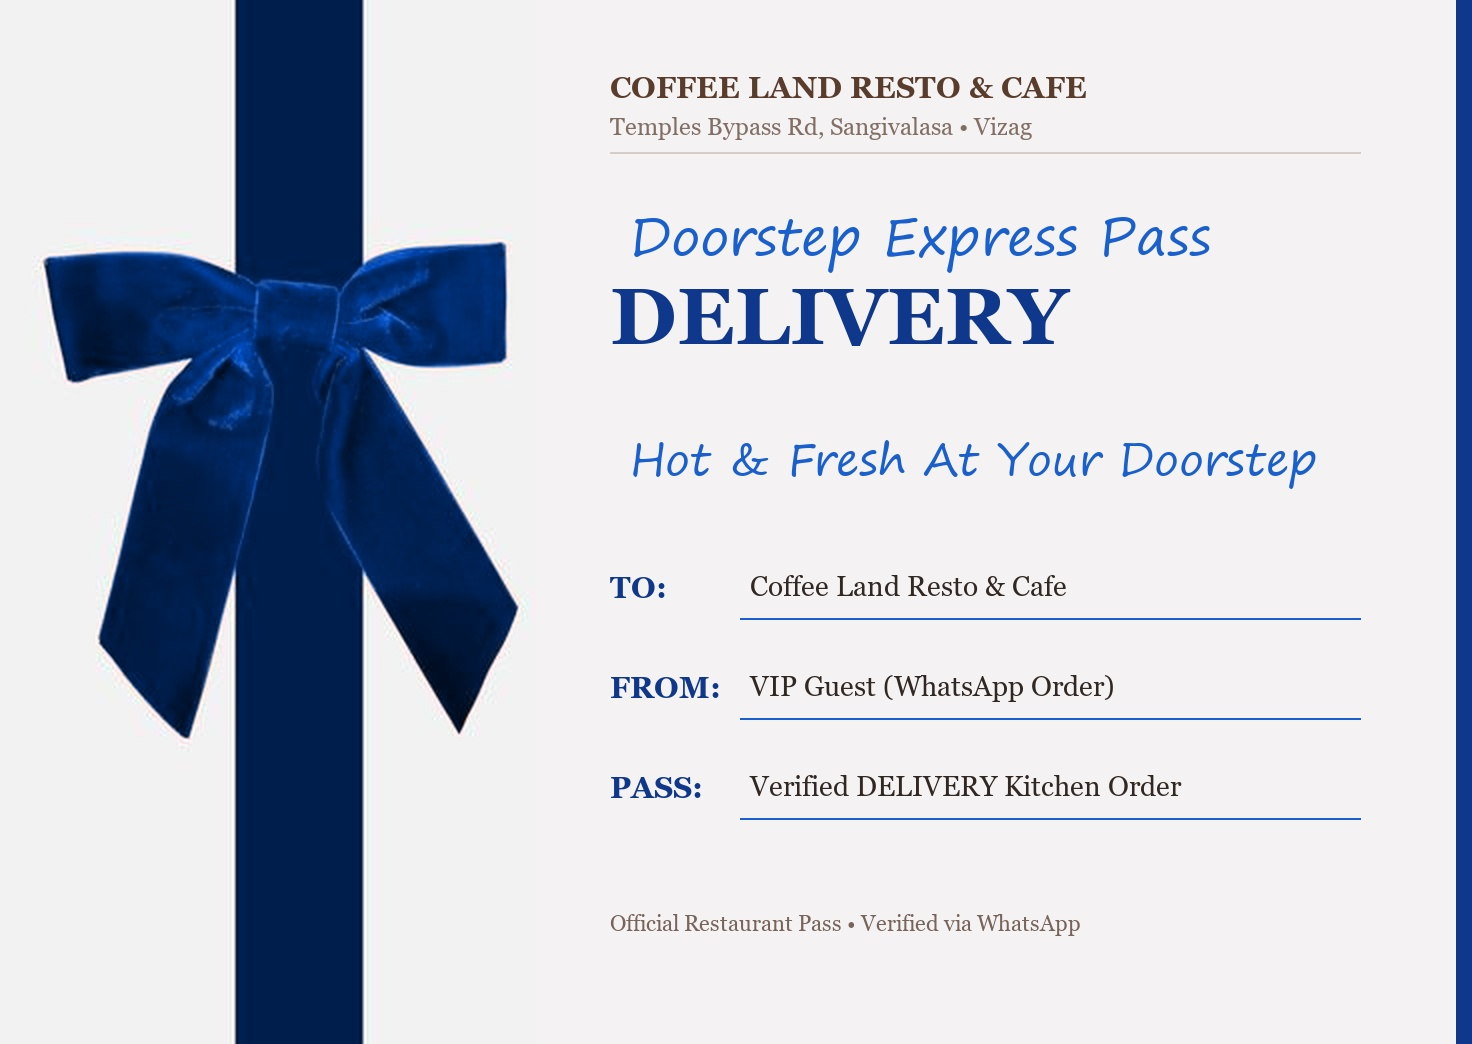
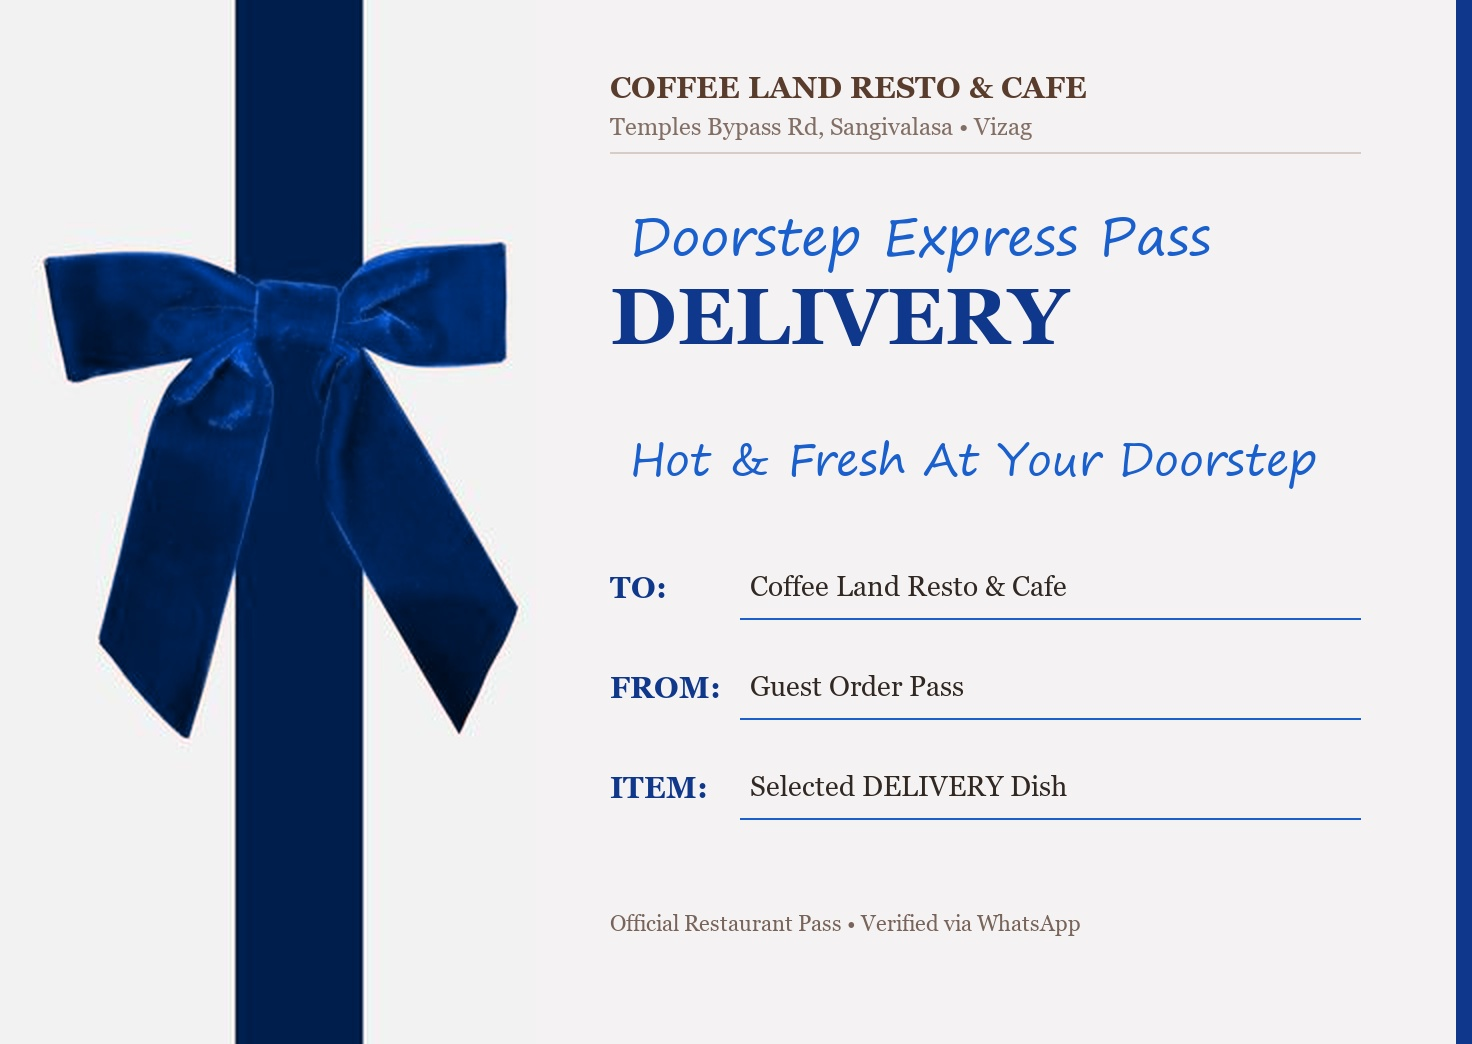
fix: remove top ORDER NOW button for clean mobile sidebar, send personalized pass with exact item name & short cold message

Changed region(s): [[0.4062, 0.7356, 0.8125, 0.7663], [0.5, 0.6437, 0.75, 0.6743]]

diff --git a/src/services/whatsappOrderService.ts b/src/services/whatsappOrderService.ts
@@ -15,82 +15,131 @@ export interface WhatsAppOrderPayload {
 const RENDER_BASE_URL = 'https://coffeeland-4yy7.onrender.com';
 
 /**
- * Dispatches the order to WhatsApp with the official reference pass card.
- * 1. Puts the live order-pass OpenGraph URL at the top of the message so WhatsApp
- *    renders the high-resolution reference card banner in the chat bubble.
- * 2. On mobile browsers supporting navigator.share, shares the actual card image file
- *    directly into WhatsApp with the message caption.
- * 3. On desktop browsers, copies the card image to the system clipboard for easy Ctrl+V pasting.
+ * Dynamically draws the customer details and actual item name onto the
+ * official reference card template (with real velvet ribbon & bow).
+ */
+export async function generatePersonalizedCardBlob(payload: WhatsAppOrderPayload): Promise<Blob | null> {
+  if (typeof document === 'undefined') return null;
+
+  const dining = payload.diningOption;
+  const passSlug = dining === 'Delivery' ? 'delivery' : dining === 'Takeaway' ? 'takeaway' : 'dine-in';
+  const baseImgUrl = `/passes/${passSlug}-base.jpg`;
+
+  return new Promise((resolve) => {
+    const img = new Image();
+    img.crossOrigin = 'anonymous';
+    img.onload = () => {
+      try {
+        const canvas = document.createElement('canvas');
+        canvas.width = img.width || 1472;
+        canvas.height = img.height || 1044;
+        const ctx = canvas.getContext('2d');
+        if (!ctx) return resolve(null);
+
+        // 1. Draw the reference card base (velvet ribbon, bow, branding, TO: line)
+        ctx.drawImage(img, 0, 0, canvas.width, canvas.height);
+
+        const scale = canvas.width / 736; // scale factor (2x)
+        const contentX = 305 * scale;
+        const lineStartX = contentX + 70 * scale;
+        const maxTextWidth = 680 * scale - lineStartX;
+
+        // 2. Draw FROM: Customer Name and Mobile
+        ctx.fillStyle = '#2c1810';
+        ctx.textBaseline = 'middle';
+        ctx.font = `bold ${Math.round(14 * scale)}px Georgia, serif`;
+        const customerText = `${payload.customerName || 'Direct Guest'}${
+          payload.customerPhone ? ` (${payload.customerPhone})` : ''
+        }`;
+        ctx.fillText(customerText, lineStartX, 335 * scale + 11 * scale, maxTextWidth);
+
+        // 3. Draw ITEM: Exact Dish Name & Bill Total (NOT generic verified pass)
+        ctx.font = `bold ${Math.round(15 * scale)}px Georgia, serif`;
+        const itemText = `${payload.itemName} • ₹${payload.price}`;
+        ctx.fillText(itemText, lineStartX, 385 * scale + 11 * scale, maxTextWidth);
+
+        // 4. Optional Special Note (Table Number / Delivery Address)
+        if (payload.customNote) {
+          ctx.font = `italic ${Math.round(12 * scale)}px Georgia, serif`;
+          ctx.fillStyle = dining === 'Delivery' ? '#0f378c' : dining === 'Takeaway' ? '#0c5a30' : '#780a14';
+          ctx.fillText(`Note: ${payload.customNote}`, contentX, 425 * scale + 11 * scale, 680 * scale - contentX);
+        }
+
+        canvas.toBlob((blob) => resolve(blob), 'image/jpeg', 0.95);
+      } catch (err) {
+        console.warn('Canvas card generation failed:', err);
+        resolve(null);
+      }
+    };
+
+    img.onerror = () => {
+      console.warn('Failed to load card base image:', baseImgUrl);
+      resolve(null);
+    };
+
+    img.src = baseImgUrl;
+  });
+}
+
+/**
+ * Dispatches the order to WhatsApp with the personalized reference pass card:
+ * 1. Shares the actual personalized card image with customer name and item name.
+ * 2. Sends a short, polite cold message from customer to restaurant owner.
+ * 3. Includes the live order-pass URL so WhatsApp generates the card preview banner.
+ * 4. On desktop, copies the personalized card to clipboard for 1-click Ctrl+V pasting.
  */
 export async function sendOrderToWhatsApp(payload: WhatsAppOrderPayload): Promise<void> {
   const phone = '919542525665';
   const dining = payload.diningOption;
-  const tagEmoji = dining === 'Dine-In' ? '🔴' : dining === 'Delivery' ? '🔵' : '🟢';
-  const tagColor = dining === 'Dine-In' ? 'RED' : dining === 'Delivery' ? 'BLUE' : 'GREEN';
-  const typeLabel =
-    dining === 'Dine-In'
-      ? 'DINE-IN ORDER'
-      : dining === 'Delivery'
-      ? 'HOME DELIVERY ORDER'
-      : 'TAKEAWAY PARCEL ORDER';
-  const subLabel =
-    dining === 'Dine-In'
-      ? 'Table Service Pass'
-      : dining === 'Delivery'
-      ? 'Doorstep Express Pass'
-      : 'Express Counter Parcel';
-
-  const orderId = payload.orderId || `CL-${Date.now().toString().slice(-6)}`;
+  const emoji = dining === 'Dine-In' ? '🔴' : dining === 'Delivery' ? '🔵' : '🟢';
   const passSlug = dining === 'Delivery' ? 'delivery' : dining === 'Takeaway' ? 'takeaway' : 'dine-in';
+  const orderId = payload.orderId || `CL-${Date.now().toString().slice(-6)}`;
 
-  // The public preview link for WhatsApp OpenGraph card preview
+  // Public card preview URL for WhatsApp OpenGraph preview
   const cardPreviewUrl = `${RENDER_BASE_URL}/order-pass?type=${encodeURIComponent(
     dining
   )}&item=${encodeURIComponent(payload.itemName)}&price=${payload.price}&name=${encodeURIComponent(
     payload.customerName || 'VIP Guest'
   )}&id=${orderId}`;
 
-  // Formatted order message with the card URL at the very top for WhatsApp Rich Link Preview
-  const orderWhatsAppText = `${cardPreviewUrl}
+  // Short, polite cold message from customer to restaurant owner (details are already on the card!)
+  let shortColdMessage = `${cardPreviewUrl}
 
-${tagEmoji}━━━━━━━━━━━━━━━━━━━━━━━━━━━━━${tagEmoji}
-   *${typeLabel} (${tagColor} PASS)*
-   _${subLabel}_
-━━━━━━━━━━━━━━━━━━━━━━━━━━━━
-📌 *TO:* Coffee Land Resto & Cafe
-        Temples Bypass Rd, Sangivalasa, Vizag
-👤 *FROM:* ${payload.customerName || 'Direct Guest'}${payload.customerPhone ? ` (${payload.customerPhone})` : ''}
-────────────────────────────
-🍽 *ITEM:* ${payload.itemName}
-🏷 *CATEGORY:* ${payload.category || 'Specialty Dish'}
-💰 *TOTAL BILL:* ₹${payload.price}${payload.promoCode ? ` (Promo: ${payload.promoCode})` : ''}
-${payload.customNote ? `📝 *DETAILS:* ${payload.customNote}\n` : ''}⏰ *TIME:* ${new Date().toLocaleString('en-IN', { timeZone: 'Asia/Kolkata', dateStyle: 'medium', timeStyle: 'short' })}
-━━━━━━━━━━━━━━━━━━━━━━━━━━━━
-✨ Please prepare & confirm this ${typeLabel}! ✨`;
+Hello Coffee Land! 👋
+I would like to place a ${emoji} *${dining} Order*:
+🍽 *Item:* ${payload.itemName} (₹${payload.price})
+👤 *Guest:* ${payload.customerName || 'Guest'}${payload.customerPhone ? ` (${payload.customerPhone})` : ''}
+${payload.customNote ? `📝 *Details:* ${payload.customNote}\n` : ''}Please confirm my order pass! Thank you.`;
 
-  // Try to fetch the local/hosted pass image
-  let imageFile: File | null = null;
+  // Generate personalized card image with customer name and item name
+  let cardFile: File | null = null;
+  let cardBlob: Blob | null = null;
+
   try {
-    const imgUrl = `/passes/${passSlug}.jpg`;
-    const res = await fetch(imgUrl);
-    if (res.ok) {
-      const blob = await res.blob();
-      imageFile = new File([blob], `${passSlug}-order-pass.jpg`, { type: 'image/jpeg' });
+    cardBlob = await generatePersonalizedCardBlob(payload);
+    if (!cardBlob) {
+      // Fallback to pre-rendered default pass
+      const res = await fetch(`/passes/${passSlug}.jpg`);
+      if (res.ok) cardBlob = await res.blob();
+    }
 
-      // If on desktop, try copying the image to clipboard so the user can easily paste (Ctrl+V) into WhatsApp Web
+    if (cardBlob) {
+      const fileName = `${dining}_Pass_${payload.itemName.replace(/[^a-zA-Z0-9]/g, '_')}.jpg`;
+      cardFile = new File([cardBlob], fileName, { type: 'image/jpeg' });
+
+      // On desktop browsers: copy card image directly to clipboard so user can press Ctrl+V into WhatsApp Web
       if (typeof navigator !== 'undefined' && navigator.clipboard && typeof ClipboardItem !== 'undefined') {
         try {
-          // Convert to PNG blob if needed since some browsers require image/png for clipboard
           const canvas = document.createElement('canvas');
           const img = new Image();
           img.crossOrigin = 'anonymous';
-          img.src = URL.createObjectURL(blob);
-          await new Promise((resolve) => {
-            img.onload = resolve;
-            img.onerror = resolve;
+          img.src = URL.createObjectURL(cardBlob);
+          await new Promise((res) => {
+            img.onload = res;
+            img.onerror = res;
           });
-          canvas.width = img.width || 736;
-          canvas.height = img.height || 522;
+          canvas.width = img.width;
+          canvas.height = img.height;
           const ctx = canvas.getContext('2d');
           if (ctx) {
             ctx.drawImage(img, 0, 0);
@@ -101,39 +150,38 @@ ${payload.customNote ? `📝 *DETAILS:* ${payload.customNote}\n` : ''}⏰ *TIME:
             }, 'image/png');
           }
         } catch {
-          // Non-blocking
+          // Non-blocking clipboard copy
         }
       }
     }
   } catch (err) {
-    console.warn('Could not fetch pass card image for sharing:', err);
+    console.warn('Card image preparation error:', err);
   }
 
-  // 1. If mobile device supports Web Share API with files, share directly to WhatsApp
+  // 1. Mobile Web Share API: Directly attaches the personalized card image into WhatsApp with the cold message caption
   if (
     typeof navigator !== 'undefined' &&
-    imageFile &&
+    cardFile &&
     navigator.canShare &&
-    navigator.canShare({ files: [imageFile] })
+    navigator.canShare({ files: [cardFile] })
   ) {
     try {
       await navigator.share({
-        files: [imageFile],
-        text: orderWhatsAppText,
+        files: [cardFile],
+        text: shortColdMessage,
         title: `Coffee Land ${dining} Order Pass`,
       });
       return;
     } catch (shareErr: unknown) {
-      // If user cancelled share sheet, return silently; otherwise fall back to wa.me
       if (shareErr instanceof Error && shareErr.name === 'AbortError') {
-        return;
+        return; // User cancelled share dialog
       }
-      console.warn('Web Share failed, falling back to wa.me URL:', shareErr);
+      console.warn('Web Share fallback:', shareErr);
     }
   }
 
-  // 2. Standard WhatsApp deep-link with the card preview URL included
-  const encodedText = encodeURIComponent(orderWhatsAppText);
+  // 2. Standard WhatsApp deep-link with the card preview URL and short cold message
+  const encodedText = encodeURIComponent(shortColdMessage);
   const whatsappUrl = `https://wa.me/${phone}?text=${encodedText}`;
 
   if (typeof window !== 'undefined') {

diff --git a/src/hooks/useBanners.ts b/src/hooks/useBanners.ts
@@ -296,23 +296,13 @@ export const useBanners = () => {
     const typeLabel = dining === 'Dine-In' ? 'DINE-IN ORDER' : dining === 'Delivery' ? 'HOME DELIVERY ORDER' : 'TAKEAWAY PARCEL ORDER';
     const subLabel = dining === 'Dine-In' ? 'Fresh Table Service' : dining === 'Delivery' ? 'Doorstep Express Delivery' : 'Express Counter Pickup';
 
-    const orderWhatsAppText = `🎀${tagEmoji}━━━━━━━━━━━━━━━━━━━━━━━━━━━━━${tagEmoji}🎀
-           *${typeLabel}*
-        _${subLabel}_
-  ${tagEmoji} *COFFEE LAND RESTO & CAFE* (${tagColor} PASS)
-━━━━━━━━━━━━━━━━━━━━━━━━━━━━━━━━━━━━
- 📌 *TO:* Coffee Land Resto & Cafe
-         Temples Bypass Rd, Sangivalasa
- 👤 *FROM:* ${finalCustomerName || 'Direct Guest'}${finalCustomerPhone ? ` (${finalCustomerPhone})` : ''}
-────────────────────────────────────
- 🍽 *ITEM:* ${data.itemName}
- 🏷 *CATEGORY:* ${data.category || 'Specialty Dish'}
- 💰 *TOTAL:* ₹${data.price}${data.promoCode ? ` (Promo: ${data.promoCode})` : ''}
-${data.customNote ? ` 📝 *NOTE / ADDRESS:* ${data.customNote}\n` : ''} ⏰ *ORDER TIME:* ${new Date().toLocaleString('en-IN', { timeZone: 'Asia/Kolkata', dateStyle: 'medium', timeStyle: 'short' })}
-━━━━━━━━━━━━━━━━━━━━━━━━━━━━━━━━━━━━
-   ✨ Please prepare & confirm this ${typeLabel}! ✨`;
+    const shortColdMessage = `Hello Coffee Land! 👋
+I would like to place a ${tagEmoji} *${dining} Order*:
+🍽 *Item:* ${data.itemName} (₹${data.price})
+👤 *Guest:* ${finalCustomerName || 'Guest'}${finalCustomerPhone ? ` (${finalCustomerPhone})` : ''}
+${data.customNote ? `📝 *Details:* ${data.customNote}\n` : ''}Please confirm my order pass! Thank you.`;
 
-    const message = orderWhatsAppText;
+    const message = shortColdMessage;
 
     const newInquiry: WhatsAppInquiry = {
       id: `inq-${Date.now()}`,

diff --git a/src/components/Navbar.tsx b/src/components/Navbar.tsx
@@ -153,18 +153,8 @@ export const Navbar: React.FC<NavbarProps> = ({
               })}
             </nav>
 
-            {/* Fast Action Tools: Order Now, Review & Favorites */}
+            {/* Fast Action Tools: Review, Favorites & Mobile Menu */}
             <div className="flex items-center gap-2 sm:gap-2.5">
-              {/* Order Now Button - Tackles the Overall Menu Area */}
-              <a
-                href="#menu"
-                onClick={(e) => handleScrollTo(e, '#menu')}
-                className="flex items-center gap-1.5 px-3.5 sm:px-4 py-2 rounded-full bg-red-600 hover:bg-red-700 text-white text-xs font-bold shadow-md hover:shadow-lg transition-all hover:scale-105 active:scale-95 ring-2 ring-red-400/30"
-                title="Explore Menu & Order Online via WhatsApp"
-              >
-                <Utensils className="w-3.5 h-3.5" />
-                <span>ORDER NOW</span>
-              </a>
 
               {/* Upload Photo & Review Button */}
               <button
